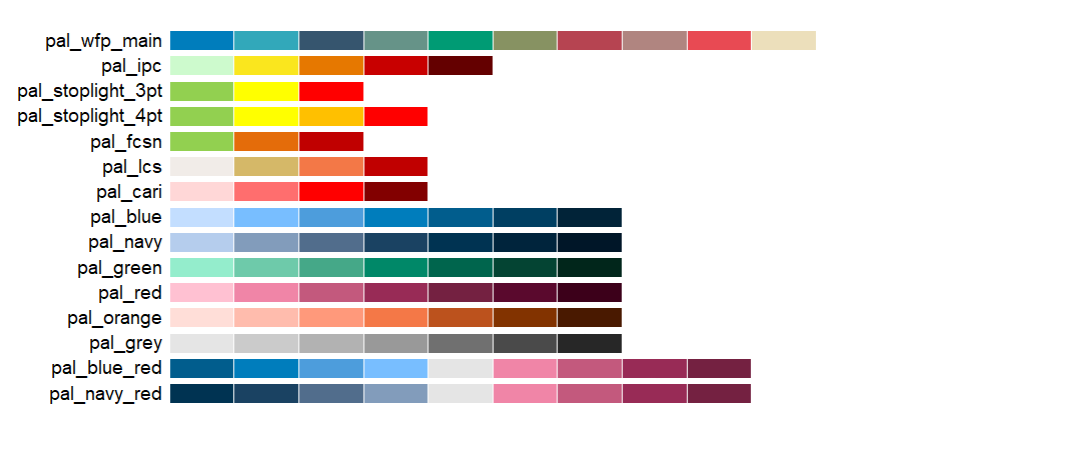
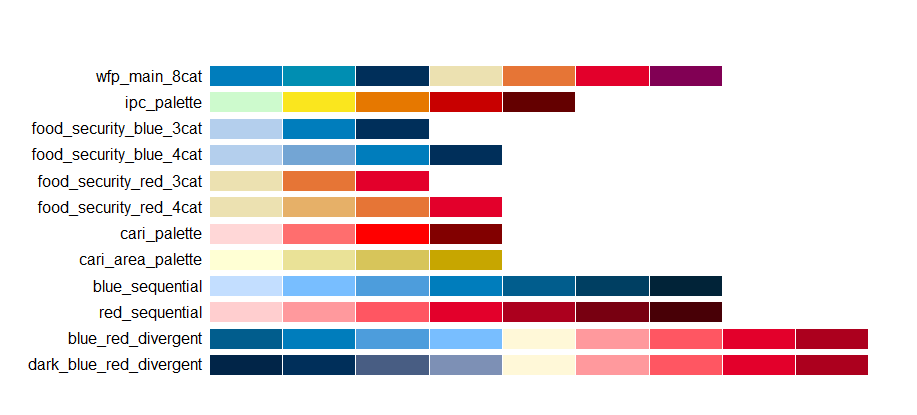
docs: updated tutorial and examples

diff --git a/man/tutorial.md b/man/tutorial.md
@@ -30,7 +30,7 @@ display_wfp_all()
 <img src="images/palettes.png" width="2100" />
 
 
-Since we have two response options and no need for a specific palette (like those for FCS, CARI, etc), we can use the main wfp palette - *pal_wfp_main* to create our graph.  Lets graph !
+Since we have two response options and no need for a specific palette (like those for FCS, CARI, etc), we can use the main wfp palette - *wfp_main_8cat* to create our graph.  Lets graph !
 
 ``` r
 HHSNoFood_admin1_barplot <- ggplot(HHSNoFood_admin1_table_long) +geom_bar(
@@ -42,7 +42,7 @@ HHSNoFood_admin1_barplot <- ggplot(HHSNoFood_admin1_table_long) +geom_bar(
     position = position_dodge(width = 0.6),
     vjust = -0.5, size = 2.5
   )+
-  scale_fill_wfp_b(palette = "pal_wfp_main") +
+  scale_fill_wfp_b(palette = "wfp_main_8cat") +
   labs(
     title = "Percentage of Households Reporting No Food to Eat | April 2024",
     subtitle = "Based on the question: 'In the past [4 weeks/30 days], was there ever no food to eat of
@@ -54,7 +54,7 @@ any kind in your house because of lack of resources to get food?'",
 plot(HHSNoFood_admin1_barplot)
 ```
 
-<img src="images/HHSNoFood_admin1_barplot_ugly.png" width="1500" />
+<img src="images/HHSNoFood_admin1_barplot_ugly" width="1500" />
 
 Lastly, we applied *theme_wfp()* but it still looks ugly so let's tweak the settings in *theme_wfp()* to get rid of the unnecessary clutter. Since we already know from the title description that the y axis is a percentage and the data labels contain the values, we can remove all the y-axis labels/text/grid lines. For the x-axis, all we need is to show the  axis text (the names of the states) - the rest we can keep blank.
 
@@ -70,4 +70,4 @@ HHSNoFood_admin1_barplot <- HHSNoFood_admin1_barplot + theme_wfp(
 plot(HHSNoFood_admin1_barplot)
 ```
 
-<img src="images/HHSNoFood_admin1_barplot_lessugly.png" width="1500" />
+<img src="images/HHSNoFood_admin1_barplot_less_uggly" width="1500" />

diff --git a/ROADMAP.md b/ROADMAP.md
@@ -4,14 +4,14 @@
 - [ ] Remove pal_navy
 - [ ] Remove pal_grey
 - [ ] Remove pal_orange
-- [ ] Reduce number of colors in pal_wfp_main to 7
-- [ ] Rename pal_stoplight_3pt to pal_foodsec_blue_3pt
-- [ ] Rename pal_stoplight_4pt to pal_foodsec_blue_4pt
-- [ ] Add pal_cari_area (4 colors)
-- [ ] Change color codes for pal_foodsec_blue_3pt
-- [ ] Change color codes for pal_foodsec_blue_4pt
-- [ ] Add pal_foodsec_red_4pt
-- [ ] Add pal_foodsec_red_3pt
-- [ ] Change color codes for pal_foodsec_blue_3pt
-- [ ] Change color codes for pal_foodsec_blue_4pt
-- [ ] Change color codes for pal_lcs and pal_fcsn (same as pal_foodsec_blue_3pt)
+- [ ] Reduce number of colors in wfp_main_8cat to 7
+- [ ] Rename pal_stoplight_3pt to food_security_blue_3cat
+- [ ] Rename pal_stoplight_4pt to food_security_blue_4cat
+- [ ] Add cari_area_palette (4 colors)
+- [ ] Change color codes for food_security_blue_3cat
+- [ ] Change color codes for food_security_blue_4cat
+- [ ] Add food_security_red_4cat
+- [ ] Add food_security_red_3cat
+- [ ] Change color codes for food_security_blue_3cat
+- [ ] Change color codes for food_security_blue_4cat
+- [ ] Change color codes for pal_lcs and pal_fcsn (same as food_security_blue_3cat)

diff --git a/README.md b/README.md
@@ -79,7 +79,7 @@ rcsi_barplot <- rcsi_admin1_table_long %>% ggplot() +
     x = meanrCSI,
     y = reorder(ADMIN1Name_lab, meanrCSI),
   ),
-  fill = wfp_pal(n = 1, "pal_blue"),
+  fill = wfp_pal(n = 1, "blue_sequential"),
   width = 0.8
   ) +
   labs(
